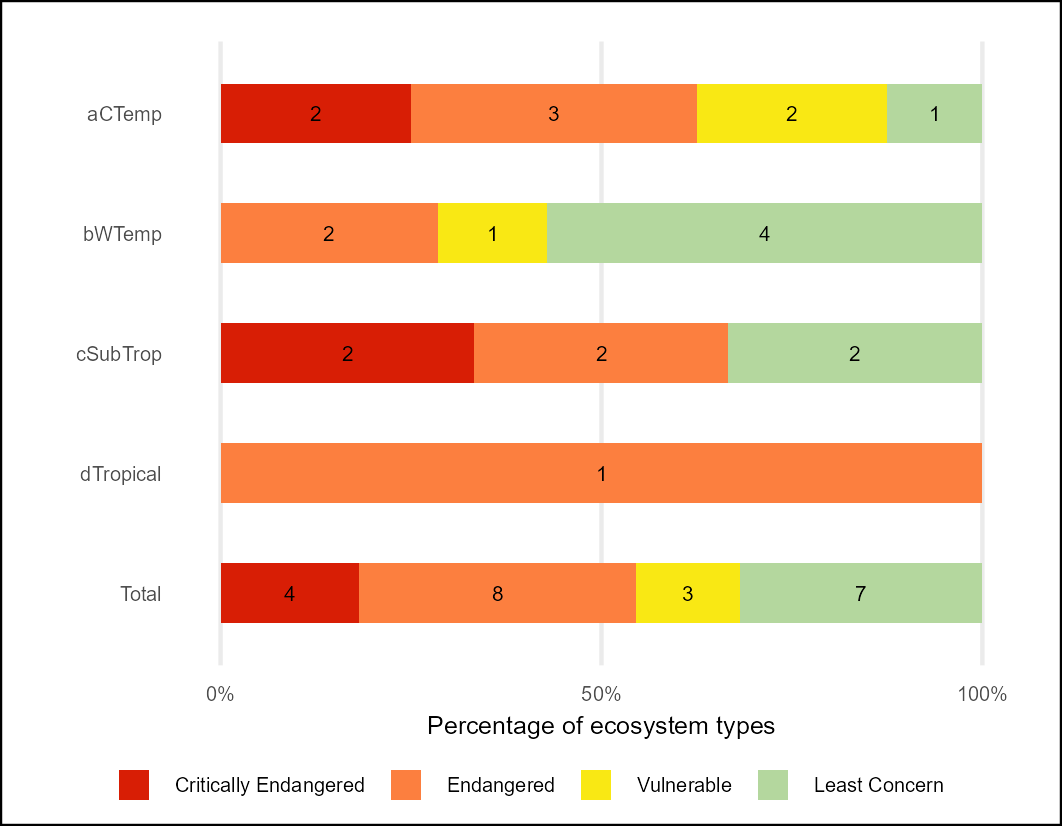
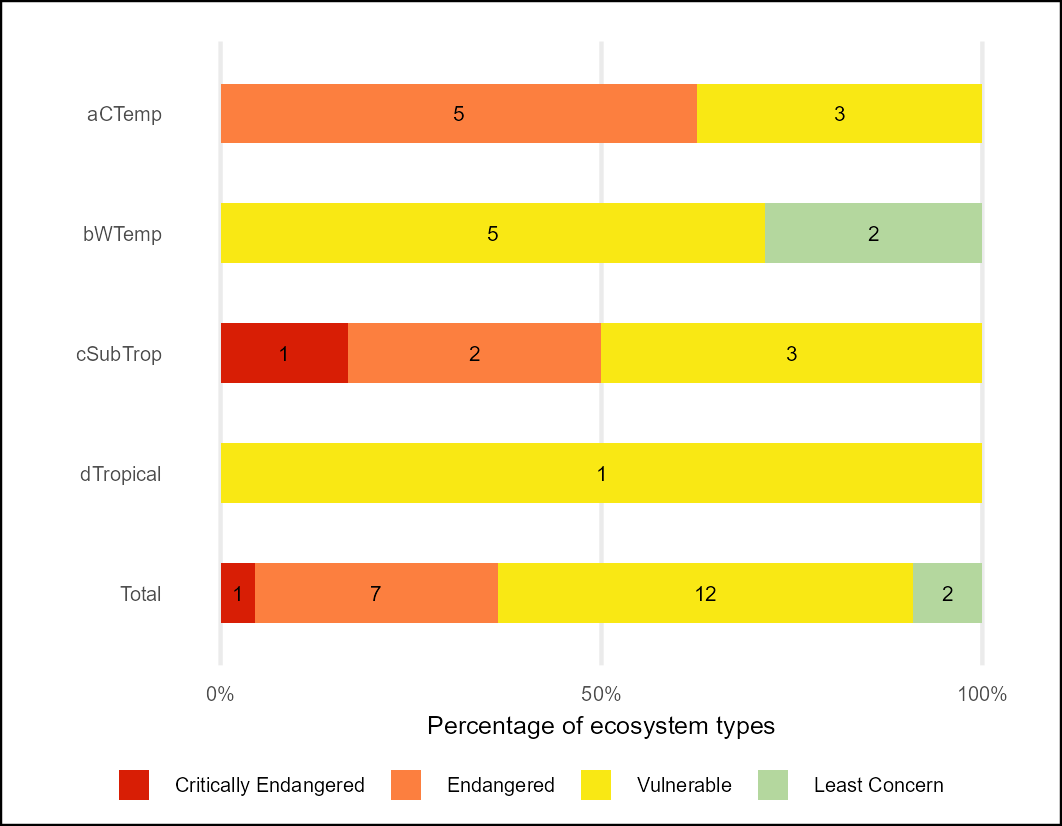
update using revised PES and model for D1 fishing pressure

diff --git a/README.md b/README.md
@@ -28,9 +28,11 @@ Estuarine Condition (Health) scores (0-100) are assigned to Present Ecological S
 
 -   **Criterion A3** (historical reduction in ecosystem extent), based on land cover 2022
 
--   **Criterion B3** was applied to the estuary types that occur at 5 or fewer locations - and for which there is ongoing decline defined as: a) between t1 and t2, fishing pressure shifts from M to H OR H to VH, OR b) PES class A, B and C extent declined by \>1%, OR extent of H and VH Fishing pressure at year of assessment is greater than 30% of type extent. This captures increasing or sustained gill-netting pressures, and steady decline in ecosystem condition as triggers.
+-   **Criterion B3** was applied to the estuary types that occur at 5 or fewer locations - and for which there is ongoing decline defined as: a) between t1 and t2, fishing pressure shifts from M to H OR H to VH, OR b) PES class A, B and C extent declined by \>1%, OR extent of H and VH Fishing pressure at year of assessment is greater than 30% of type extent. This captures increasing or sustained gill-netting pressures, and steady decline in ecosystem condition as triggers. The rating applies to the whole type and is scaled by estuarine extent.
 
--   **Criterion D3** was applied to the Estuarine Ecological State Class (PES) data such that severity of biotic disruption of \>= 90% was assumed for PES classes E-F; Severity \>=70% was assigned to PES classes D-F; Severity \>=50% was assigned to PES classes C-F.
+-   **Criterion D1** was applied using fishing pressure scores for each estuary. The scores were converted to an index 0-1 and aligned to severity rating (1 highest severity - 100%; 0 lowest severity - 0%). The rating applies to the whole type and is scaled by estuarine extent.
+
+-   **Criterion D3** was applied to the Estuarine Ecological State Class (PES) data such that severity of biotic disruption of \>= 90% was assumed for PES classes E-F; Severity \>=70% was assigned to PES classes D-F; Severity \>=50% was assigned to PES classes C-F. The rating applies to the whole type and is scaled by estuarine extent.
 
 Each of the 22 estuary ecosystem types were assigned to one of the four risk categories: Critically Endangered, Endangered, Vulnerable and Least Concern. The highest risk category for these two criteria is selected as the threat / risk status for each river type.
 
@@ -43,20 +45,16 @@ Summary table - count of estuarine ecosystem types per biogeographic zone per RL
 Summary table - extent of estuarine ecosystem per biogeographic zone per RLE category [rle24_est_sum_ext.csv](outputs/rle24_est_sum_ext.csv)
 
 | RLE 2024 - count of types per category | RLE 2024 - extent of types per category |
-|----|----|
+|------------------------------------|------------------------------------|
 | ![](outputs/rle24_est_barplot_count.png) | ![](outputs/rle24_est_barplot_ext.png) |
-
-| RLE 2018 - count of types per category | RLE 2018 - extent of types per category |
-|----|----|
-| ![](outputs/rle18_est_barplot_count.png) | ![](outputs/rle18_est_barplot_ext.png) |
 
 **RLE Index**
 
 Reflecting changes in ecosystem RLE between 2018 and 2024
 
 | RLIE |   |
-|----|----|
-| ![](outputs/rlie_est_line_plot.png) | Red List Index of Ecosystems between 2018 and 2024. Showing increased risk of collapse for Warm Temperate and Tropical Estuaries |
+|------------------------------------|------------------------------------|
+| ![](outputs/rlie_est_line_plot.png) | Red List Index of Ecosystems between 2018 and 2024. Showing increased risk of collapse for all estuary biogeographical zones. |
 
 **Combined RLE and EPL results**
 
